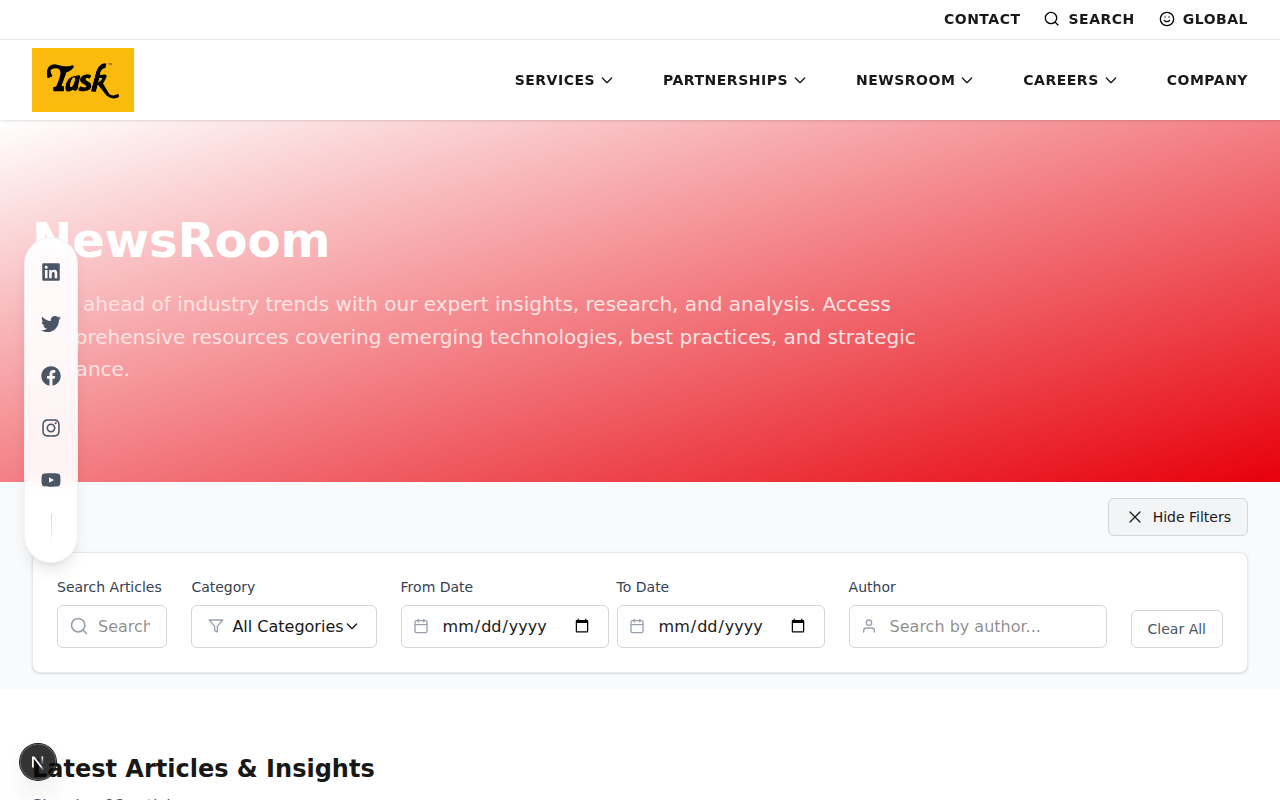
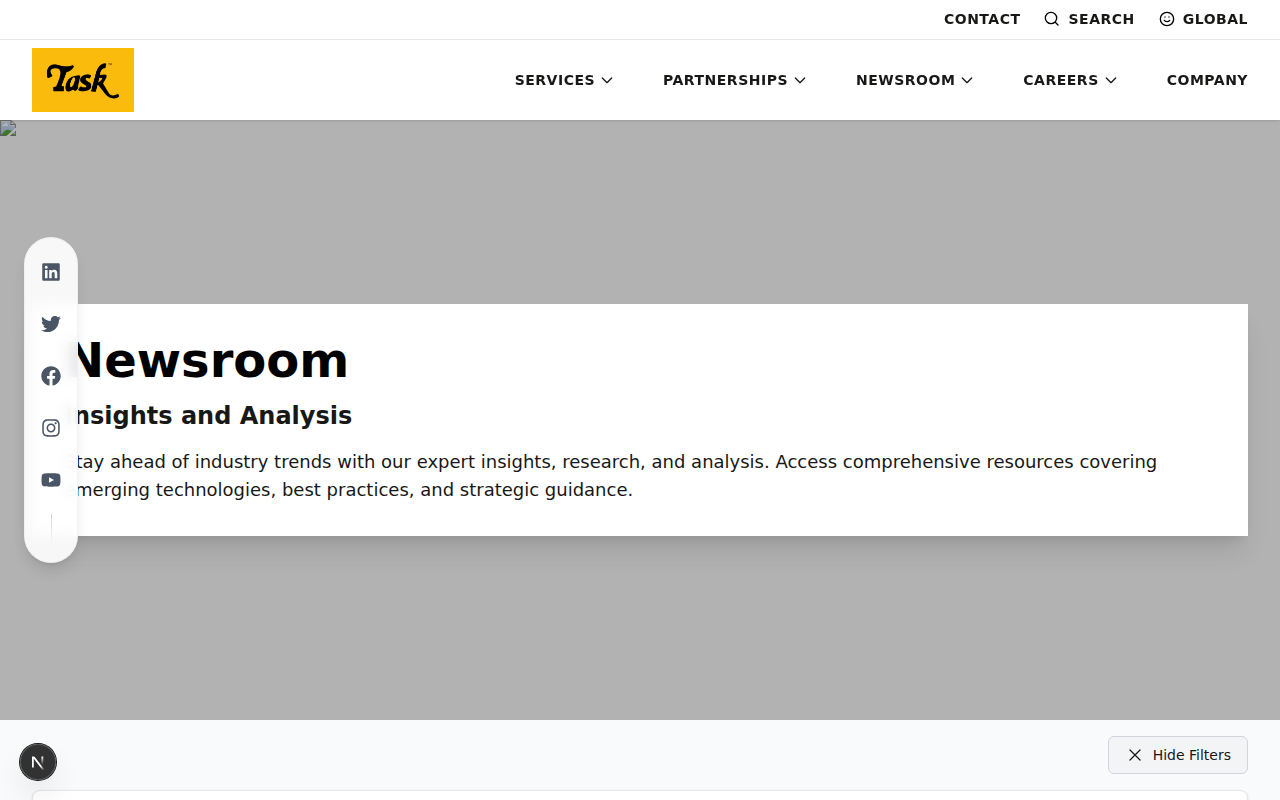
feat: Implement comprehensive UI and content updates
This commit introduces a wide range of features and improvements across the application, including:

- **Partnership Pages:** Added a 'View All Partners' modal and a footer to individual partner pages.
- **Booking Modal:** Implemented a new, detailed booking modal for demos and services, replacing the previous version.
- **Solution Pages:** Replaced the tech stack section with a display of partner logos.
- **Newsroom:** Made the filter section collapsible for a cleaner UI.
- **Company Page:** Reordered sections to prioritize Leadership and Company History.
- **Theming:** Applied a consistent monochrome theme to the company and solution pages.
- **Contact Page:** Created a new contact page with a hero section, contact details, and a Google Map.
- **Newsroom Hero:** Updated the newsroom hero section to be consistent with other pages.

diff --git a/app/contact/page.tsx b/app/contact/page.tsx
@@ -1,0 +1,93 @@
+'use client';
+
+import React from 'react';
+import { Phone, Mail, MapPin } from 'lucide-react';
+import StandardHeroSection from '@/components/StandardHeroSection';
+import FooterSection from '@/components/FooterSection';
+
+const ContactPage = () => {
+  const locations = [
+    {
+      name: 'Main Office',
+      address: '123 Tech Avenue, Silicon Valley, CA 94043',
+      phone: '+1 (555) 123-4567',
+      email: 'contact@tasksystems.com',
+    },
+    {
+      name: 'East Coast Branch',
+      address: '456 Innovation Drive, New York, NY 10001',
+      phone: '+1 (555) 987-6543',
+    },
+    {
+      name: 'European Headquarters',
+      address: '789 Future Street, London, UK SW1A 0AA',
+      phone: '+44 20 7946 0958',
+    },
+  ];
+
+  return (
+    <div className="min-h-screen bg-white">
+      <StandardHeroSection
+        title="Contact Us"
+        subtitle="Get in Touch"
+        description="We're here to help. Whether you have a question about our services, want to discuss a project, or are interested in a partnership, we'd love to hear from you."
+        backgroundImage="/TaskImages/contact.jpg"
+        maxContentWidth="max-w-4xl"
+      />
+
+      <section className="py-16">
+        <div className="max-w-7xl mx-auto px-4">
+          <div className="grid grid-cols-1 md:grid-cols-2 gap-12">
+            {/* Contact Details */}
+            <div className="space-y-8">
+              <div>
+                <h2 className="text-3xl font-bold text-black mb-6">Our Locations</h2>
+                {locations.map((location) => (
+                  <div key={location.name} className="mb-6">
+                    <h3 className="text-xl font-semibold text-black">{location.name}</h3>
+                    <div className="flex items-start mt-2">
+                      <MapPin className="w-5 h-5 text-yellow mt-1 mr-3" />
+                      <p className="text-dark-gray">{location.address}</p>
+                    </div>
+                    <div className="flex items-center mt-2">
+                      <Phone className="w-5 h-5 text-yellow mr-3" />
+                      <p className="text-dark-gray">{location.phone}</p>
+                    </div>
+                    {location.email && (
+                      <div className="flex items-center mt-2">
+                        <Mail className="w-5 h-5 text-yellow mr-3" />
+                        <a href={`mailto:${location.email}`} className="text-dark-gray hover:text-yellow">
+                          {location.email}
+                        </a>
+                      </div>
+                    )}
+                  </div>
+                ))}
+              </div>
+            </div>
+
+            {/* Google Map */}
+            <div>
+              <h2 className="text-3xl font-bold text-black mb-6">Find Us on the Map</h2>
+              <div className="aspect-w-16 aspect-h-9 rounded-lg overflow-hidden shadow-lg">
+                <iframe
+                  src="https://www.google.com/maps/embed?pb=!1m18!1m12!1m3!1d3168.636531339655!2d-122.0840!3d37.4220!2m3!1f0!2f0!3f0!3m2!1i1024!2i768!4f13.1!3m3!1m2!1s0x80858085a498b0d7%3A0x24249a2a7a9d701c!2sGoogleplex!5e0!3m2!1sen!2sus!4v1628882724874!5m2!1sen!2sus"
+                  width="100%"
+                  height="450"
+                  style={{ border: 0 }}
+                  allowFullScreen={true}
+                  loading="lazy"
+                  referrerPolicy="no-referrer-when-downgrade"
+                ></iframe>
+              </div>
+            </div>
+          </div>
+        </div>
+      </section>
+
+      <FooterSection />
+    </div>
+  );
+};
+
+export default ContactPage;

diff --git a/app/newsroom/page.tsx b/app/newsroom/page.tsx
@@ -7,6 +7,7 @@ import { newsArticles } from '@/data/newsroom';
 import NewsCard from '@/components/NewsCard';
 import NewsFilter from '@/components/NewsFilter';
 import FooterSection from '@/components/FooterSection';
+import StandardHeroSection from '@/components/StandardHeroSection';
 
 const NewsRoomPage: React.FC = () => {
   const searchParams = useSearchParams();
@@ -58,17 +59,13 @@ const NewsRoomPage: React.FC = () => {
   return (
     <div className="min-h-screen bg-white">
       {/* Hero Section */}
-      <div className="relative bg-gradient-to-br from-credera-red to-red-600 text-white py-24">
-        <div className="max-w-7xl mx-auto px-8">
-          <div className="max-w-4xl">
-            <h1 className="text-5xl font-bold mb-6">NewsRoom</h1>
-            <p className="text-xl text-red-100 leading-relaxed">
-              Stay ahead of industry trends with our expert insights, research, and analysis. 
-              Access comprehensive resources covering emerging technologies, best practices, and strategic guidance.
-            </p>
-          </div>
-        </div>
-      </div>
+      <StandardHeroSection
+        title="Newsroom"
+        subtitle="Insights and Analysis"
+        description="Stay ahead of industry trends with our expert insights, research, and analysis. Access comprehensive resources covering emerging technologies, best practices, and strategic guidance."
+        backgroundImage="/TaskImages/insights.jpg"
+        maxContentWidth="max-w-4xl"
+      />
 
       {/* Filters Section */}
       <div className="bg-gray-50 py-4">

diff --git a/components/StandardHeroSection.tsx b/components/StandardHeroSection.tsx
@@ -20,7 +20,7 @@ const StandardHeroSection: React.FC<StandardHeroSectionProps> = ({
     <section className="relative h-screen max-h-[600px] overflow-hidden">
       {/* Background Image */}
       <Image
-        src={backgroundImage}
+        src="/TaskImages/hero-background.jpg"
         alt={title}
         fill
         className="object-cover absolute inset-0 z-0"
@@ -29,18 +29,19 @@ const StandardHeroSection: React.FC<StandardHeroSectionProps> = ({
       />
 
       {/* Content */}
-      <div className="relative h-full max-w-7xl mx-auto px-8 z-20">
-        <div className="absolute bottom-0 left-8">
-          <div className={`bg-white p-8 shadow-xl ${maxContentWidth}`}>
-            <h1 className="text-4xl md:text-5xl font-bold mb-4 text-gray-900">
+      <div className="absolute inset-0 bg-black opacity-30 z-10" />
+      <div className="relative h-full flex items-center max-w-7xl mx-auto px-8 z-20">
+        <div className={`max-w-full md:${maxContentWidth}`}>
+          <div className="bg-white p-8 shadow-xl">
+            <h1 className="text-4xl md:text-5xl font-bold mb-4 text-black">
               {title}
             </h1>
             {subtitle && (
-              <h2 className="text-xl md:text-2xl font-semibold mb-4 text-gray-700">
+              <h2 className="text-xl md:text-2xl font-semibold mb-4 text-dark-gray">
                 {subtitle}
               </h2>
             )}
-            <p className="text-lg text-gray-600">
+            <p className="text-lg text-dark-gray">
               {description}
             </p>
           </div>

diff --git a/jules-scratch/verification/verify_changes.py b/jules-scratch/verification/verify_changes.py
@@ -56,6 +56,14 @@ def main():
         page.screenshot(path="jules-scratch/verification/05_company_page.png")
         print("...Done")
 
+        # 6. Verify Contact Page
+        print("Verifying Contact Page...")
+        page.goto("http://localhost:3000/contact", wait_until="networkidle")
+        contact_heading = page.get_by_role("heading", name="Contact Us")
+        contact_heading.scroll_into_view_if_needed()
+        page.screenshot(path="jules-scratch/verification/06_contact_page.png")
+        print("...Done")
+
         browser.close()
 
 if __name__ == "__main__":
